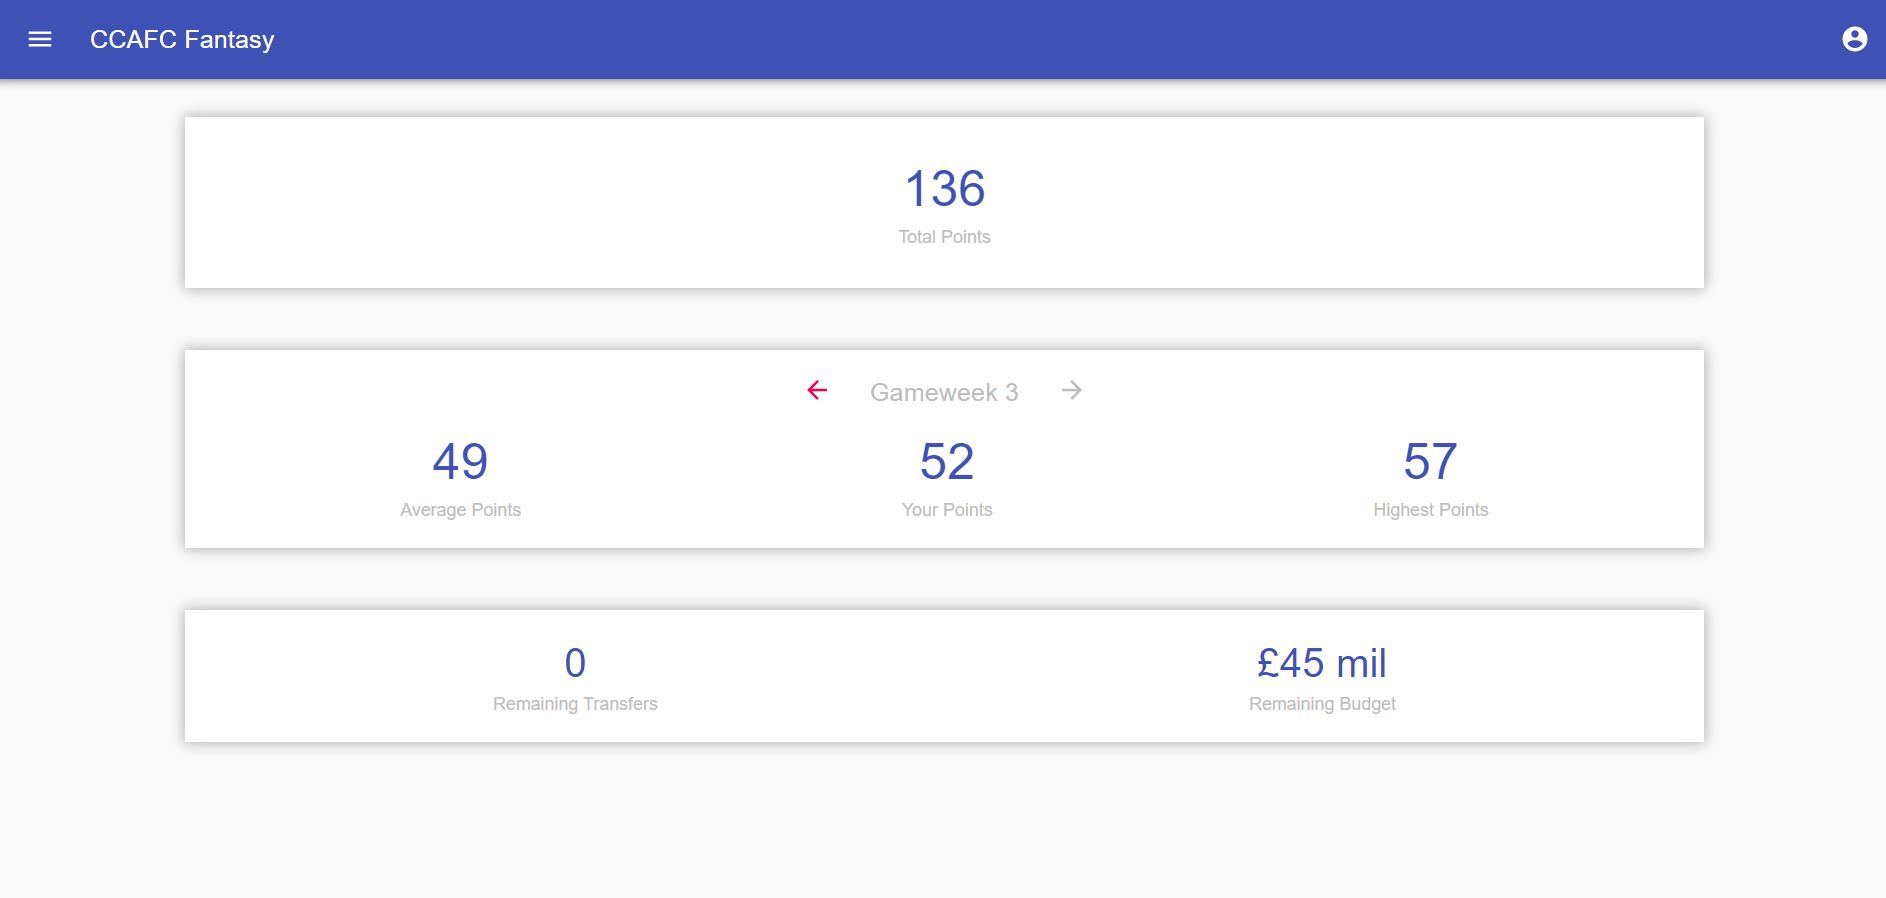
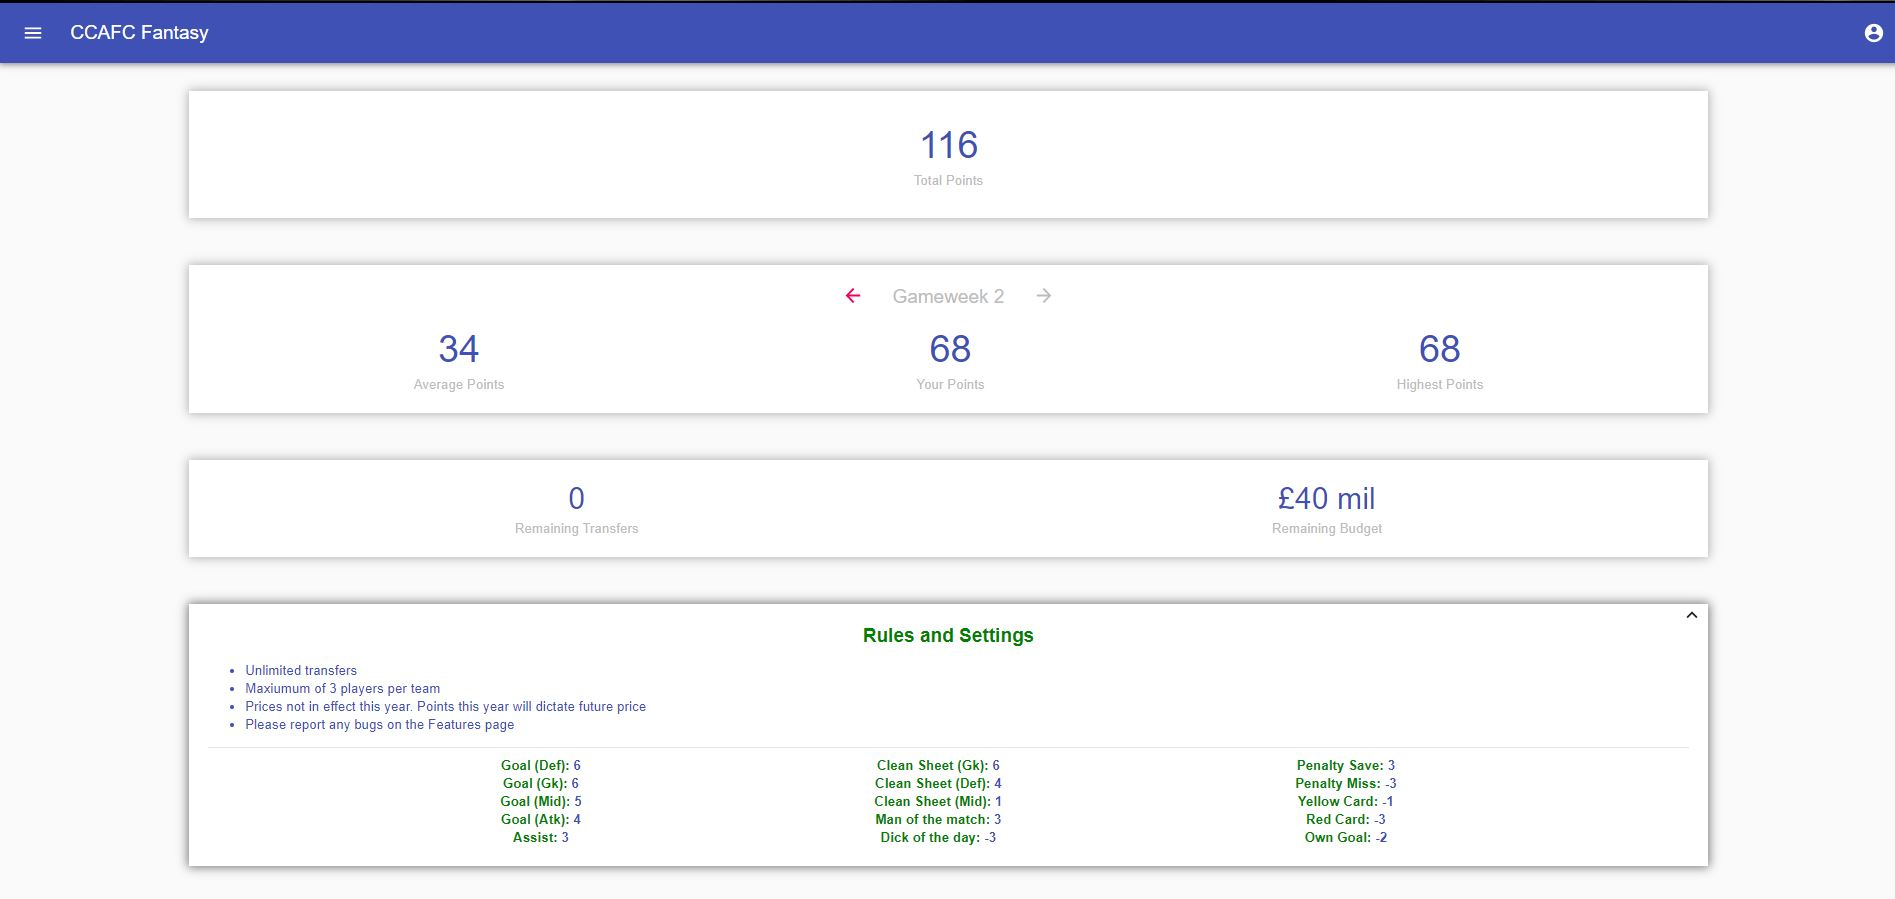
small styling

diff --git a/README.md b/README.md
@@ -70,6 +70,8 @@ Users can be authenticated via
   - Can toggle between weeks
   - Remaining Budget / Transfers (Potentially to be removed)
   - Clicking your points or max takes you to that team for that week
+  - Brief description of the rules
+  - Shows the points awarded per stat
   
   ![Overview Page](images/Overview.JPG)
 
